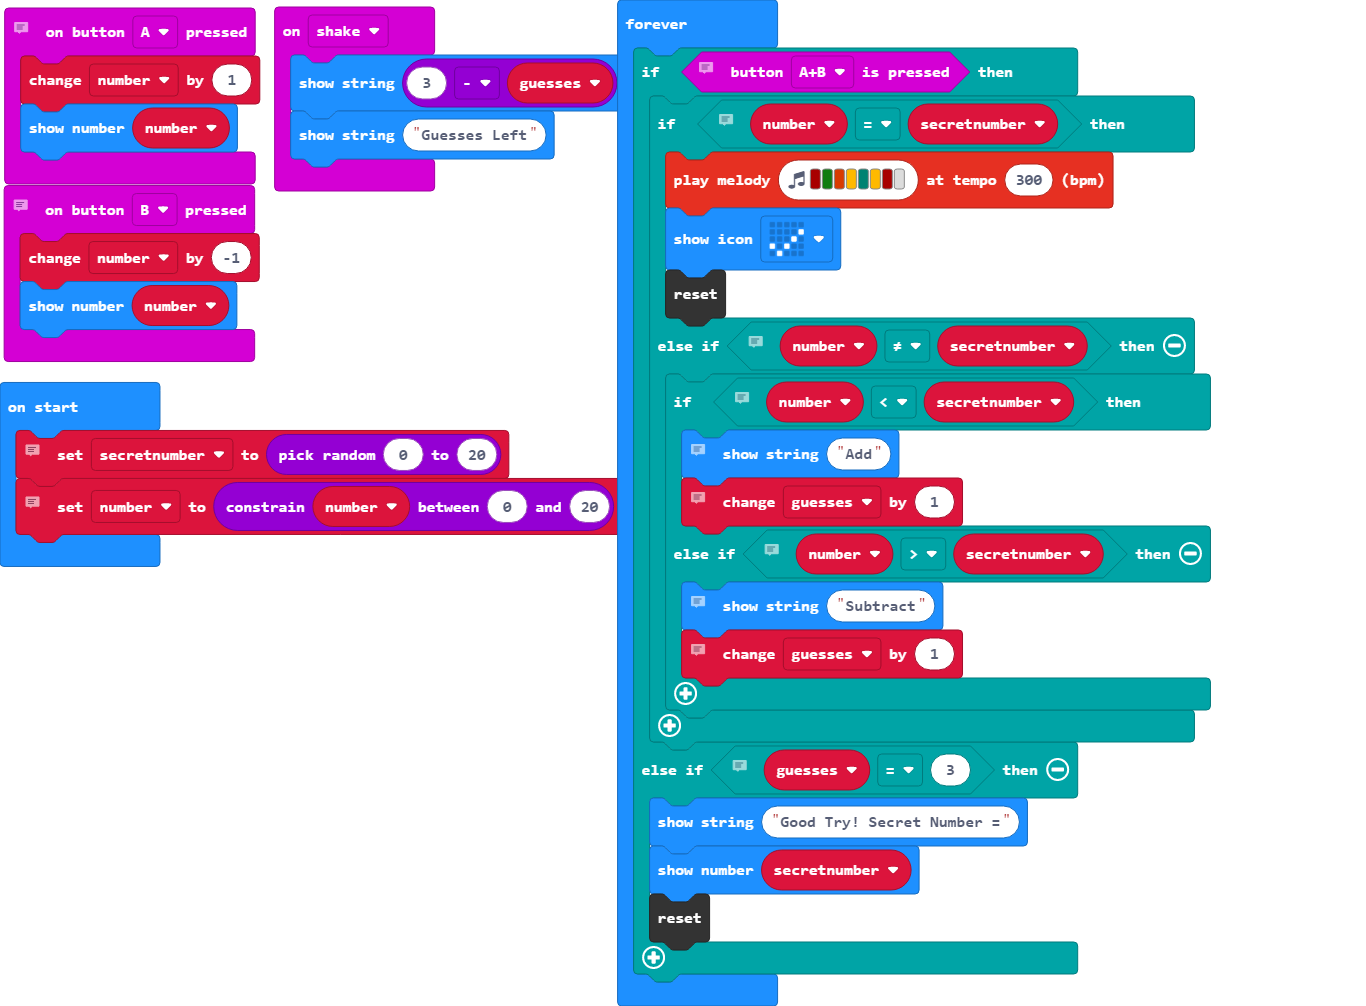
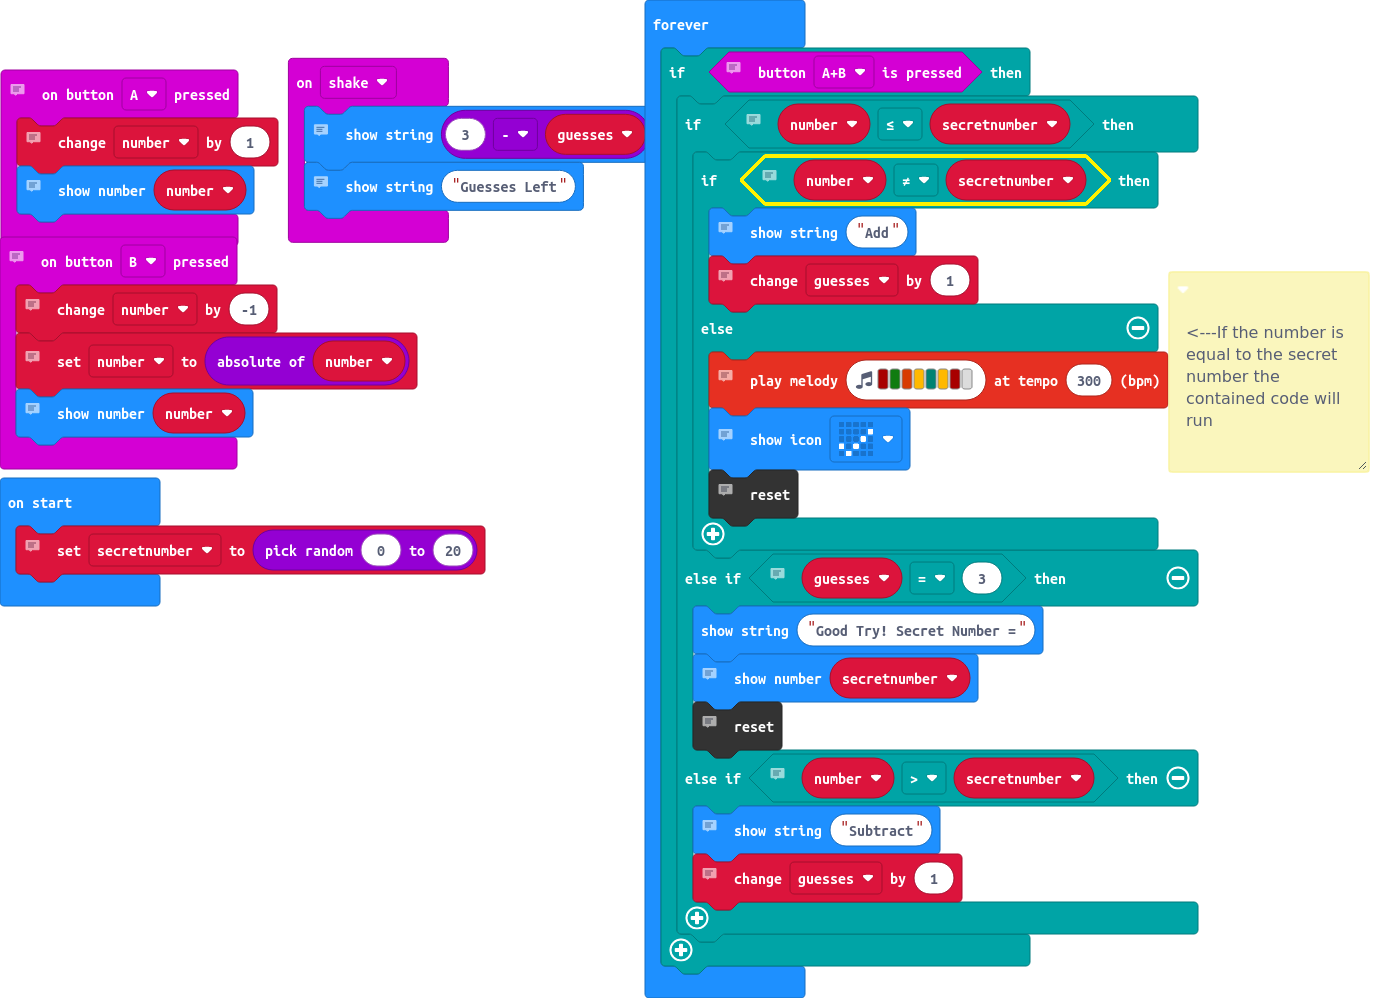
Update main.blocks, main.ts

diff --git a/main.ts b/main.ts
@@ -1,51 +1,64 @@
-// on button A pressed the number variable increases by 1 and is displayed
+// when button A is pressed the number variable increases by 1 and is displayed
 input.onButtonPressed(Button.A, function () {
+    // increases number by 1
     number += 1
+    // displays number
     basic.showNumber(number)
 })
-// on button B pressed the number variable decreases by 1 and is displayed
+// when button B is pressed the number variable decreases by 1 and is displayed
 input.onButtonPressed(Button.B, function () {
+    // decreases number by 1
     number += -1
+    // sets number variable to the absolute value of itself, making it unable to be a negative number
+    number = Math.abs(number)
+    // displays number
     basic.showNumber(number)
 })
 input.onGesture(Gesture.Shake, function () {
+    // displays the amount of guesses are left
     basic.showString("" + (3 - guesses))
+    // displays "Guesses Left" so that the user knows what the number means
     basic.showString("Guesses Left")
 })
 let guesses = 0
 let number = 0
 // sets the secretnumber variable to a random number between 0 and 20
 let secretnumber = randint(0, 20)
-// restricts number variable from passing 0 and 20
-number = Math.constrain(number, 0, 20)
+/**
+ * <---If the number is equal to the secret number the contained code will run
+ */
 basic.forever(function () {
     // If A+B is pressed the number variable is compared against the secretnumber variable
-    // if the guesses variable reaches 3 the secretnumber is displayed followed by a reset
     if (input.buttonIsPressed(Button.AB)) {
-        // if the number variable is equal to the secretnumber variable (guess is correct) music is played and a check is displayed followed by a reset
-        // if the number variable does not equal the secretnumber variable (guess is incorrect) the microbit gives you tips (add/subtract)
-        if (number == secretnumber) {
-            music.playMelody("C5 G B A F A C5 - ", 300)
-            basic.showIcon(IconNames.Yes)
-            control.reset()
-        } else if (number != secretnumber) {
-            // if the number variable is lower than the secretnumber variable (guess is too low) the word "Add" is displayed and the guesses variable increases by 1
-            // if the number variable is higher than the secretnumber variable (guess is too high) the word "Subtract" is displayed and the guesses variable increases by 1
-            if (number < secretnumber) {
+        // if the number variable is less than or equal to the secretnumber variable the contained code will run
+        // if the guesses variable reaches 3 the secretnumber is displayed followed by a reset
+        // if the number variable is higher than the secretnumber variable (guess is too high) the word "Subtract" is displayed and the guesses variable increases by 1
+        if (number <= secretnumber) {
+            // if number doesnt equal secretnumber the user is told to add and the guesses counter increases by 1
+            if (number != secretnumber) {
                 // displays "Add"
                 basic.showString("Add")
                 // increases guesses variable by 1
                 guesses += 1
-            } else if (number > secretnumber) {
-                // displays "Subtract"
-                basic.showString("Subtract")
-                // increases the guesses variable by 1
-                guesses += 1
+            } else {
+                // plays music
+                music.playMelody("C5 G B A F A C5 - ", 300)
+                // displays a check
+                basic.showIcon(IconNames.Yes)
+                // resets the microbit
+                control.reset()
             }
+        } else if (guesses == 3) {
+            basic.showString("Good Try! Secret Number =")
+            // displays secretnumber
+            basic.showNumber(secretnumber)
+            // resets
+            control.reset()
+        } else if (number > secretnumber) {
+            // displays "Subtract"
+            basic.showString("Subtract")
+            // increases the guesses variable by 1
+            guesses += 1
         }
-    } else if (guesses == 3) {
-        basic.showString("Good Try! Secret Number =")
-        basic.showNumber(secretnumber)
-        control.reset()
     }
 })
